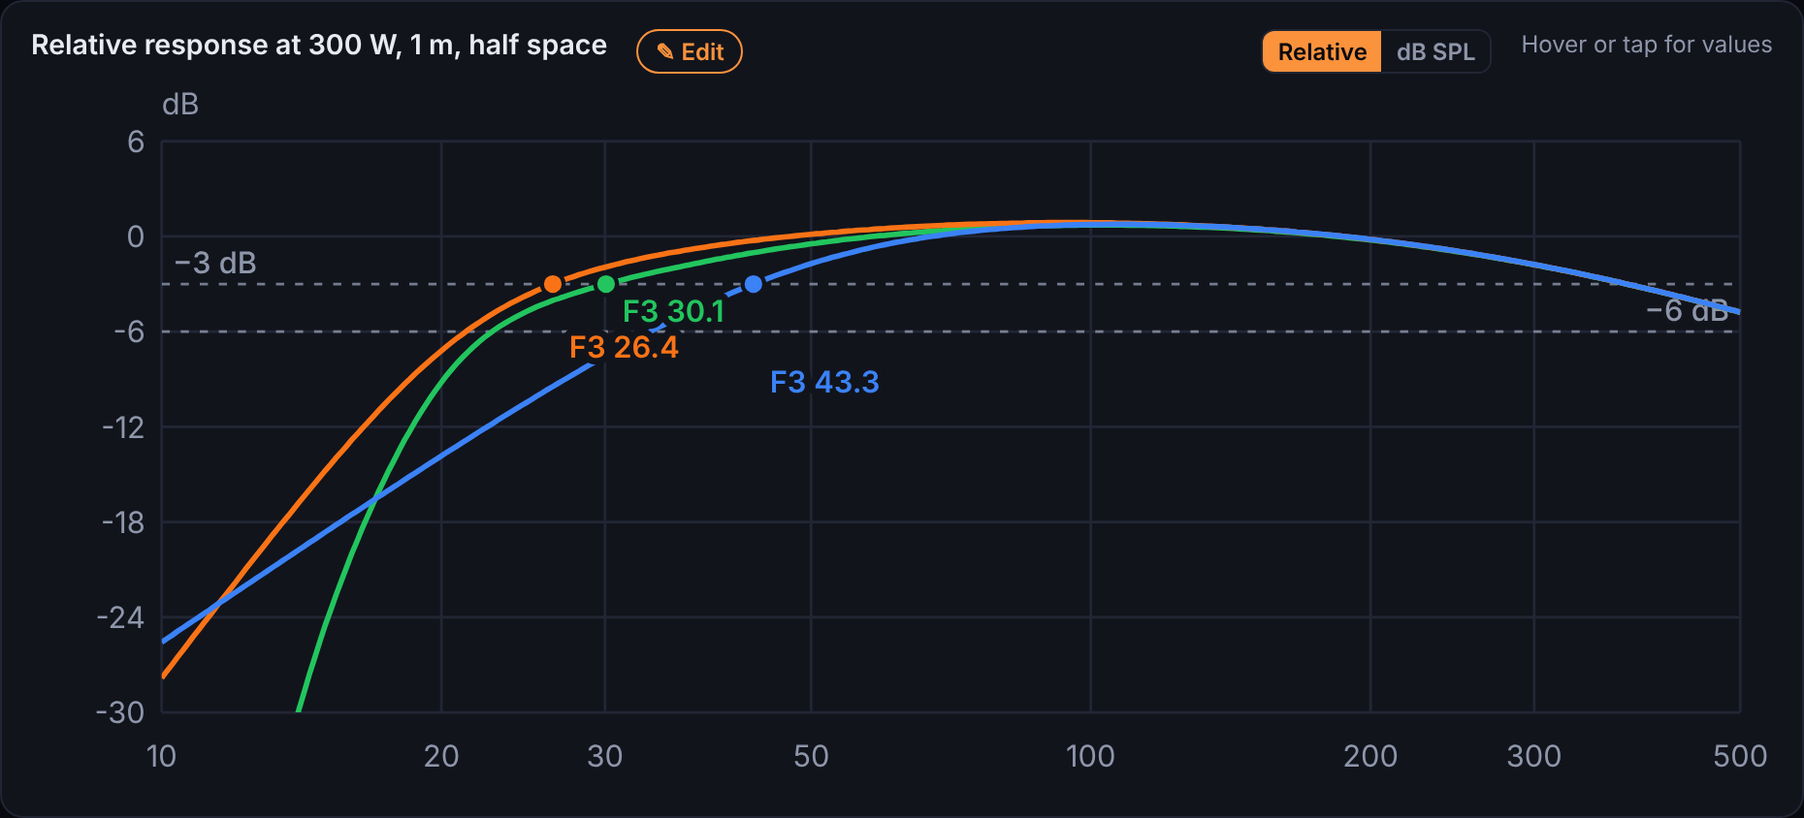
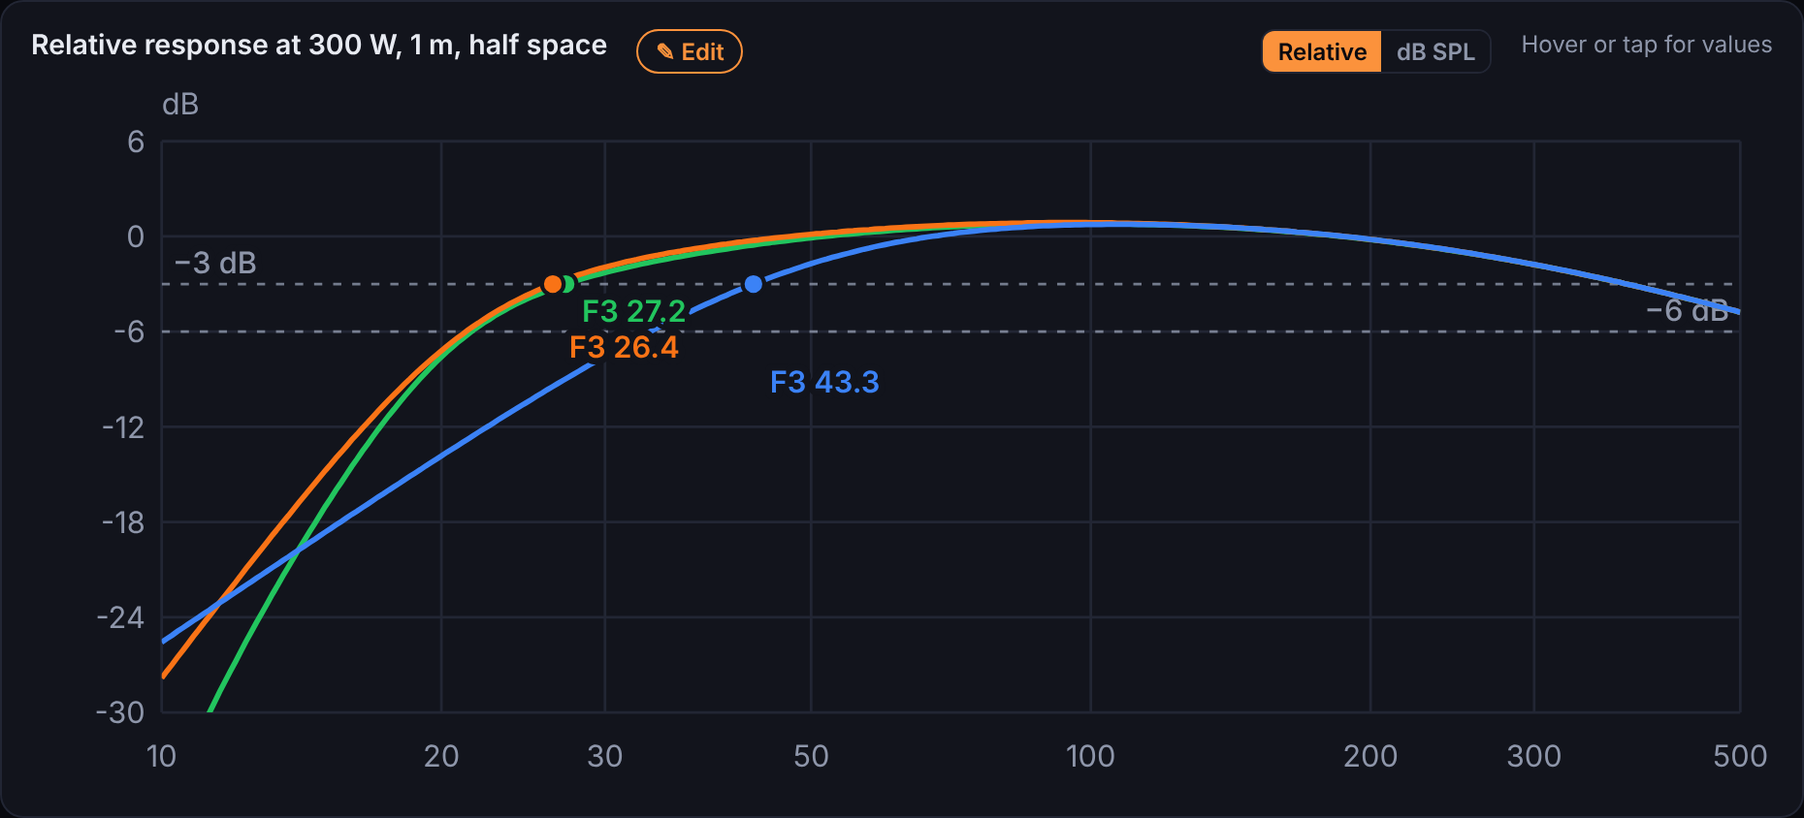
Design assistant guide: re-run on the 20 Hz grading
The example's PR box is now four SB29NRX-00s (+350 g, F3 27.2 Hz), as the
assistant picks with every box checked from 20 Hz (or its F3). New counts,
ranks, Deepest/Smallest winners, the subsonic-filter card line, and
screenshots; "where the checks stop" rewritten. Drops the unused Max SPL
image.

Claude-Session: https://claude.ai/code/session_014Z7ytzgKDyb9k1o8CWjVtJ

Changed region(s): [[0.1559, 0.2773, 0.5301, 0.7085], [0.1247, 0.7085, 0.1871, 0.8626], [0.0935, 0.8318, 0.1247, 0.8626]]

diff --git a/site/guideNumbers.test.ts b/site/guideNumbers.test.ts
@@ -656,20 +656,24 @@ test("design assistant guide: the home-subwoofer defaults still put the example'
   res = [...res, ...prShortlist(rankResults(res, goal), cands).flatMap((r) => evaluateDriver(DEFAULT_STATE, r, loaded(r.id) as never, goal, "pr", db.passiveRadiators.map(prCandidate)))];
   const ranked = rankResults(res, goal);
   const top = ranked[0]!;
-  assert.deepEqual([top.driverId, top.box, top.vb_l, top.fb, top.pr?.name, top.pr?.count, top.pr?.addedMass_g, top.over], ["dayton-audio/rss315ho-44", "pr", 38.1, 22.2, "Dayton Audio RSS315-PR", 1, 431, []]);
-  near(top.f3, 30.1, 0.06, "PR F3");
+  assert.deepEqual([top.driverId, top.box, top.vb_l, top.fb, top.pr?.name, top.pr?.count, top.pr?.addedMass_g, top.over], ["dayton-audio/rss315ho-44", "pr", 38.1, 22.2, "SB Acoustics SB29NRX-00", 4, 350, []]);
+  near(top.f3, 27.2, 0.06, "PR F3");
+  // Within its limits from 20 Hz up, but its cone and PRs pass Xmax below that: the card says so.
+  assert.deepEqual(top.subsonic, { below_hz: 20, safe_w: 68 });
+  assert.equal(top.pr!.prUse, 0.94);
   const mine = ranked.filter((r) => r.driverId === top.driverId);
   const ported = mine.find((r) => r.box === "vented")!;
   const sealed = mine.find((r) => r.box === "sealed")!;
   assert.deepEqual(ported.over, ["port"]);
-  assert.equal(ported.safe_w, 23);
+  assert.equal(ported.safe_w, 25);
   assert.equal(sealed.vb_l, 23);
-  assert.equal(ranked.findIndex((r) => r.driverId === "18-sound/18ntlw5000-8ohm" && r.box === "vented") + 1, 11);
-  assert.equal(ranked.indexOf(sealed) + 1, 8);
-  assert.equal(ranked.indexOf(ported) + 1, 540);
+  assert.equal(ranked.findIndex((r) => r.driverId === "18-sound/18ntlw5000-8ohm" && r.box === "vented") + 1, 10);
+  assert.equal(ranked.indexOf(sealed) + 1, 9);
+  assert.equal(ranked.indexOf(ported) + 1, 579);
+  assert.equal(sealed.subsonic, undefined);
   // Re-sorted: Deepest and Loudest on the same results; Smallest sizes the boxes again.
   const deep = rankResults(res, { ...goal, priority: "deep" })[0]!;
-  assert.deepEqual([deep.driverId, deep.box, deep.vb_l, Math.round(deep.f3 * 10) / 10], ["sb-acoustics/sb34swpl76-3-dv", "pr", 76.6, 22.9]);
+  assert.deepEqual([deep.driverId, deep.box, deep.vb_l, Math.round(deep.f3 * 10) / 10, deep.pr?.name, deep.over], ["peerless/stw-350f188pr01-04", "pr", 75.3, 17.8, "Dayton Audio RSS315-PR", []]);
   const loud = rankResults(res, { ...goal, priority: "loud" })[0]!;
   assert.deepEqual([loud.driverId, loud.box, loud.vb_l, loud.loud_db, loud.pr?.name], ["peerless/sdf-375f75pr01-04", "pr", 80, 110.6, "Dayton Audio RSS460-PR"]);
   assert.ok(loud.notes.some((n) => n.includes("won't all fit")));
@@ -678,10 +682,11 @@ test("design assistant guide: the home-subwoofer defaults still put the example'
   let sres = scands.flatMap((r) => evaluateDriver(DEFAULT_STATE, r, loaded(r.id) as never, sgoal));
   sres = [...sres, ...prShortlist(rankResults(sres, sgoal), scands).flatMap((r) => evaluateDriver(DEFAULT_STATE, r, loaded(r.id) as never, sgoal, "pr", db.passiveRadiators.map(prCandidate)))];
   const small = rankResults(sres, sgoal)[0]!;
-  assert.deepEqual([small.driverId, small.box, small.vb_l], ["dayton-audio/umii10-22", "pr", 45.9]);
+  assert.deepEqual([small.driverId, small.box, small.vb_l, small.pr?.name, small.pr?.count, small.pr?.addedMass_g], ["peerless/stw-350f188pr01-04", "pr", 28.2, "SB Acoustics SB29NRX-00", 4, 1154]);
+  assert.ok(small.notes.some((n) => n.includes("won't all fit")));
   // The counts the guide gives for these defaults.
   const grade = (g: string) => ranked.filter((r) => (g === "over" ? r.over.length > 0 : g === "deep" ? !r.over.length && !!r.deep : !r.over.length && !r.deep)).length;
-  assert.deepEqual([cands.length, ranked.length, grade("ok"), grade("deep"), grade("over")], [733, 1430, 416, 67, 947]);
+  assert.deepEqual([cands.length, ranked.length, grade("ok"), grade("deep"), grade("over")], [733, 1431, 456, 67, 908]);
   // Opening it with ported too, plus the sealed box, gives the example's designs.
   const opened = openResults(DEFAULT_STATE, loaded(top.driverId) as never, [top, ported, sealed], goal);
   const ex = EXAMPLES["assistant-example"]!();
@@ -691,9 +696,17 @@ test("design assistant guide: the home-subwoofer defaults still put the example'
   // The example at 300 W.
   const rows3 = run("assistant-example");
   const l = rows3.map((d) => limitsOf(d.result, ex.xmax_mm, false));
-  near(l[0]!.x!, 8.97, 0.01, "PR cone");
-  near(l[1]!.vp!, 61.7, 0.06, "ported port speed");
-  near(l[2]!.x!, 10.65, 0.01, "sealed cone");
-  [30.1, 26.4, 43.3].forEach((f3, i) => near(rows3[i]!.result.summary.f3!, f3, 0.06, `${rows3[i]!.label} F3`));
-  [105.5, 106.6, 101.0].forEach((db30, i) => near(at(rows3[i]!.result.freq, rows3[i]!.result.spl, 30), db30, 0.06, `${rows3[i]!.label} at 30 Hz`));
+  near(l[0]!.x!, 8.76, 0.01, "PR cone");
+  near(l[0]!.xpr!.mm, 10.6, 0.01, "PR travel");
+  near(l[1]!.vp!, 59.6, 0.06, "ported port speed");
+  near(l[2]!.x!, 10.25, 0.01, "sealed cone");
+  [27.2, 26.4, 43.3].forEach((f3, i) => near(rows3[i]!.result.summary.f3!, f3, 0.06, `${rows3[i]!.label} F3`));
+  [106.3, 106.6, 101.0].forEach((db30, i) => near(at(rows3[i]!.result.freq, rows3[i]!.result.spl, 30), db30, 0.06, `${rows3[i]!.label} at 30 Hz`));
+  // The trap: below 20 Hz the PR box's cone passes Xmax; a 24 dB/oct 18 Hz high-pass filter fixes it.
+  near(at(rows3[0]!.result.freq, rows3[0]!.result.excursionMm, 15), 20.4, 0.06, "PR cone at 15 Hz");
+  near(Math.max(...Array.from(rows3[2]!.result.excursionMm)), 11.2, 0.06, "sealed cone, 10 Hz up");
+  const hp = { ...ex, highPass: { on: true, type: "butterworth" as const, order: 4, freq: 18 } };
+  const withHp = runDesigns(hp, solveDriver(hp))[0]!.result;
+  near(at(withHp.freq, withHp.excursionMm, 15), 8.9, 0.06, "PR cone at 15 Hz, filtered");
+  near(withHp.summary.f3!, 27.7, 0.06, "PR F3, filtered");
 });

diff --git a/site/examples.ts b/site/examples.ts
@@ -665,7 +665,7 @@ function ampExample(kind: "one" | "parallel" | "series" | "bridged") {
  * box ("Open with ported too": the port it picks, 4 cm flared 1 cm, is all that fits) and its
  * sealed box. Fixed here; guideNumbers checks the assistant still gives them.
  */
-export const ASSISTANT_EX = { power: 300, pr_l: 38.1, fb: 22.2, prMass_g: 431, sealed_l: 23, port: { diameter_cm: 4, flare_cm: 1, length_cm: 18.4 } };
+export const ASSISTANT_EX = { power: 300, pr_l: 38.1, fb: 22.2, prMass_g: 350, prCount: 4, sealed_l: 23, port: { diameter_cm: 4, flare_cm: 1, length_cm: 18.4 } };
 function assistantExample(): AppState {
   const s = withDriver({ ...DEFAULT_STATE, power: ASSISTANT_EX.power, highPass: { ...DEFAULT_STATE.highPass, on: false } }, "dayton-audio/rss315ho-44");
   const pr = byKind(DEFAULT_STATE, "pr") as Extract<DesignState, { kind: "pr" }>;
@@ -674,7 +674,7 @@ function assistantExample(): AppState {
     ...s,
     dvc: { on: true, entered: "series", wired: "series" },
     designs: [
-      { ...pr, id: "d1", name: "PR RSS315HO-44", vb_l: ASSISTANT_EX.pr_l, prName: "Dayton Audio RSS315-PR", count: 1, addedMass_g: ASSISTANT_EX.prMass_g, targetFb: ASSISTANT_EX.fb, params: prParams("dayton-audio/rss315-pr"), extra: [], preset: "Assistant" },
+      { ...pr, id: "d1", name: "PR RSS315HO-44", vb_l: ASSISTANT_EX.pr_l, prName: "SB Acoustics SB29NRX-00", count: ASSISTANT_EX.prCount, addedMass_g: ASSISTANT_EX.prMass_g, targetFb: ASSISTANT_EX.fb, params: prParams("sb-acoustics/sb29nrx-00"), extra: [], preset: "Assistant" },
       { ...v, id: "d2", name: "Ported RSS315HO-44", vb_l: ASSISTANT_EX.pr_l, shape: "round", ...ASSISTANT_EX.port, count: 1, targetFb: ASSISTANT_EX.fb, preset: "Assistant" },
       { ...byKind(DEFAULT_STATE, "sealed"), id: "d3", name: "Sealed RSS315HO-44", vb_l: ASSISTANT_EX.sealed_l, preset: "Assistant" },
     ],

diff --git a/site/pages/design-assistant.md b/site/pages/design-assistant.md
@@ -32,28 +32,29 @@ Not sure which driver to buy, or which box to put it in? The design assistant as
 
 ## A worked run: the home-subwoofer defaults
 
-Leave everything at **Home subwoofer**'s defaults and the assistant tries **733** of the database's drivers (the rest are outside the size range, aren't woofers, resonate above 60 Hz, lack the parameters or can't be wired to the amplifier's minimum load) and returns **1,430 boxes**. **416** are within their limits at 300 W, **67** more only pass Xmax in deep bass (amber, below), and **947** are over a limit. The top of the list, Balanced:
+Leave everything at **Home subwoofer**'s defaults and the assistant tries **733** of the database's drivers (the rest are outside the size range, aren't woofers, resonate above 60 Hz, lack the parameters or can't be wired to the amplifier's minimum load) and returns **1,431 boxes**. **456** are within their limits at 300 W, **67** more only pass Xmax in deep bass (amber, below), and **908** are over a limit. The top of the list, Balanced:
 
-![The home-sub results, best first. The Dayton RSS315HO-44 with one RSS315-PR leads: F3 30 Hz, 106 dB at 30 Hz, 38 L. Each card gives the F3, the output at your frequency, the box, and the grade.](img/assistant-results.png)
+![The home-sub results, best first. The Dayton RSS315HO-44 with four SB29NRX-00 radiators leads: F3 27 Hz, 106 dB at 30 Hz, 38 L. Each card gives the F3, the output at your frequency, the box, the grade, and where a subsonic filter is needed.](img/assistant-results.png)
 
-The first result is a **Dayton Audio RSS315HO-44** 12″ (its two 4 Ω coils in series, 8 Ω) [1] with one **RSS315-PR** [2] and 431 g added to it, in **38.1 L** tuned to **22.2 Hz**. **Open with ported too** puts the same driver in the same 38.1 L box with a port; the worked example adds its sealed box (23 L, Qtc 0.707) from its own card further down the list:
+The first result is a **Dayton Audio RSS315HO-44** 12″ (its two 4 Ω coils in series, 8 Ω) [1] with four **SB Acoustics SB29NRX-00** 10″ passive radiators [2], 350 g added to each, in **38.1 L** tuned to **22.2 Hz**. The card warns that the PRs use 94 % of their travel when the driver reaches its Xmax, past the 75 % where a PR's suspension starts to stiffen. SB Acoustics' 17 mm figure for this PR is its mechanical limit, not a linear one, so treat that as a real warning and check the **PR excursion** chart once it's open. **Open with ported too** puts the same driver in the same 38.1 L box with a port; the worked example adds its sealed box (23 L, Qtc 0.707) from its own card further down the list:
 
 [[Open the worked example|assistant-example]]
 
 | At 300 W, no filter | PR, 38.1 L | Ported, 38.1 L | Sealed, 23 L |
 |---|---|---|---|
-| F3 | 30.1 Hz | **26.4 Hz** | 43.3 Hz |
-| Output at 30 Hz | 105.5 dB | **106.6 dB** | 101.0 dB |
-| Peak cone travel, 20 Hz up (Xmax 14 mm) | 9.0 mm | 8.6 mm | 10.6 mm |
-| Port air speed | — | **61.7 m/s** | — |
-| Grade | ✓ within limits | ⚠ port, safe to 23 W | ✓ within limits |
-| Rank in the list | **1st** | 540th | 8th |
+| F3 | 27.2 Hz | **26.4 Hz** | 43.3 Hz |
+| Output at 30 Hz | 106.3 dB | **106.6 dB** | 101.0 dB |
+| Peak cone travel, 20 Hz up (Xmax 14 mm) | 8.8 mm | 8.6 mm | 10.2 mm |
+| Peak PR travel, 20 Hz up (17 mm) | 10.6 mm | — | — |
+| Port air speed | — | **59.6 m/s** | — |
+| Grade | ✓ within limits from 20 Hz up | ⚠ port, safe to about 25 W | ✓ within limits down to 10 Hz |
+| Rank in the list | **1st** | 579th | 9th |
 
-![The example's response: the ported box (orange) reaches 26.4 Hz, the PR box (green) 30.1 Hz, the sealed box (blue) 43.3 Hz.](img/assistant-example-spl.png)
+![The example's response: the ported box (orange) reaches 26.4 Hz, the PR box (green) 27.2 Hz, the sealed box (blue) 43.3 Hz.](img/assistant-example-spl.png)
 
-![Port air speed in the ported box at 300 W: 61.7 m/s, more than three times the 17 m/s chuffing line.](img/assistant-example-port.png)
+![Port air speed in the ported box at 300 W: 59.6 m/s, three and a half times the 17 m/s chuffing line.](img/assistant-example-port.png)
 
-The ported box goes 3.7 Hz deeper than the PR box, but it can't be built to play at 300 W. A 38 L box tuned to 22 Hz needs a long port. The biggest that fits straight inside is **4 cm** across (flared, 18.4 cm long), and at 300 W its air moves at **61.7 m/s**. That box is only quiet up to **23 W**. The PR box has no port to chuff, which is why it ranks first and the ported box 540th. That's the trade a passive radiator makes: a few hertz of F3, against a port you can't fit.
+The ported box goes only 0.8 Hz deeper than the PR box, and it can't be built to play at 300 W. A 38 L box tuned to 22 Hz needs a long port. The biggest that fits straight inside is **4 cm** across (flared, 18.4 cm long), and at 300 W its air moves at **59.6 m/s**. That box is only quiet up to about **25 W**. The PR box has no port to chuff, which is why it ranks first and the ported box 579th. That's the trade a passive radiator makes: a hertz of F3 and the cost of four radiators, against a port you can't fit.
 
 ## How results are graded
 
@@ -61,14 +62,14 @@ Every design is simulated at your power and graded exactly as the app grades it,
 
 - **✓ Within its limits:** the cone stays inside its Xmax, and any port under the chuffing line, through the bass it plays.
 - **Deep bass (amber):** a ported, PR or line box only goes past Xmax **below 0.7 × its tuning**, and never past **2 × Xmax** down to 20 Hz. Music has little energy that low, so this is fine for most listening without a subsonic filter. The card says the power that would keep it within Xmax there too.
-- **⚠ Over a limit:** past Xmax in the bass it plays, or the port chuffs. These come after every result that's within its limits, with the power that would keep them within (the ported box above: 23 W).
+- **⚠ Over a limit:** past Xmax in the bass it plays, or the port chuffs. These come after every result that's within its limits, with the power that would keep them within (the ported box above: about 25 W).
 - **Slow bass:** a note when the group delay in the band (from 0.8 × F3 up) is longer than one cycle of the note, where bass starts to sound late. The second result in the example's list, a UMII10-22 PR box, gets one: 39 ms at 26 Hz, 1.02 cycles.
 
-**Where the checks stop.** A sealed box is checked from 15 Hz. A tuned box (ported, PR, line) with no high-pass filter isn't checked below 20 Hz, however low it's tuned. Any design with a high-pass filter on the **Signal** tab is checked from 10 Hz.
+**Where the checks stop.** With no high-pass filter, every box is checked from **20 Hz** up, sealed or tuned, or from its own F3 if that's lower: a box built to reach 18 Hz is checked at 18 Hz. Below that, music has little energy. Any design with a high-pass filter on the **Signal** tab is checked from 10 Hz, since the filter is part of the simulation. A card within its limits also says whether the cone (or a PR) passes Xmax below the checks, and up to what power it wouldn't: "within its limits from 20 Hz up" with a subsonic-filter warning, or "down to 10 Hz" when nothing passes Xmax at all.
 
 ![The example's cone travel at 300 W: within the 14 mm Xmax from 20 Hz up in all three boxes, but below 20 Hz the PR (green) and ported (orange) cones unload and pass it.](img/assistant-example-excursion.png)
 
-> **Common trap: "within its limits" means safe with any signal.** The grade ignores a tuned box below 20 Hz, but your amplifier doesn't. On the excursion chart the PR box's cone reaches **20.3 mm at 15 Hz** (Xmax 14) and the PR itself 24.7 mm. Turn on **Signal → High-pass filter**, 24 dB/oct at 18 Hz, and that drops to **8.8 mm** and 10.7 mm, for an F3 of 30.4 Hz instead of 30.1. See the [subsonic filter guide](/guides/subsonic-filter/).
+> **Common trap: "within its limits" means safe with any signal.** The grade ignores everything below 20 Hz, but your amplifier doesn't. On the excursion chart the PR box's cone reaches **20.4 mm at 15 Hz** (Xmax 14), and the card says it's only safe to 68 W down there. Turn on **Signal → High-pass filter**, 24 dB/oct at 18 Hz, and that drops to **8.9 mm**, for an F3 of 27.7 Hz instead of 27.2. The sealed box doesn't need it: its cone tops out at 11.2 mm, even at 10 Hz. See the [subsonic filter guide](/guides/subsonic-filter/).
 
 On a box tuned higher, the deep-bass zone is shaded on the excursion chart, with its own 2 × Xmax line:
 
@@ -77,7 +78,7 @@ On a box tuned higher, the deep-bass zone is shaded on the excursion chart, with
 ## How results are ranked
 
 - **Within its limits first**, always: over-limit results sort after every one that's within.
-- **Balanced** adds up each result's place in the list on three measures: F3, output at your frequency, and box size (counted at 0.6). It adds a small penalty for a response hump over 1.5 dB and a nudge down for a deep-bass grade. It doesn't use your target F3. So an 18″ ported box with an F3 of 50 Hz ranks 11th in this home-sub list, ahead of sealed boxes reaching 32 Hz, because it's loud and compact. If depth is what you're after, switch to **Deepest**.
+- **Balanced** adds up each result's place in the list on three measures: F3, output at your frequency, and box size (counted at 0.6). It adds a small penalty for a response hump over 1.5 dB and a nudge down for a deep-bass grade. It doesn't use your target F3. So an 18″ ported box with an F3 of 50 Hz ranks 10th in this home-sub list, ahead of sealed boxes reaching 32 Hz, because it's loud and compact. If depth is what you're after, switch to **Deepest**.
 - **Deepest**, **Loudest** and **Smallest box** sort on that one measure (Smallest only among results that reach your target F3).
 - Badges mark the deepest, loudest and smallest of the top 50 that are within their limits.
 
@@ -85,7 +86,7 @@ On a box tuned higher, the deep-bass zone is shaded on the excursion chart, with
 
 - **Sealed:** sized for a Qtc of 0.707, or as big as your limit allows.
 - **Ported:** a flat alignment (QB3, or Keele for a higher Qts), capped at your limit; in a smaller box, the tuning with the lowest F3 that stays flat. The port is the simplest that fits straight inside the box and stays under the chuffing line at your power: a plain tube, then a flared tube, then a slot along a wall. If none does both, it gets the one that fits and is graded over the limit, as in the example.
-- **Passive radiator boxes** (on by default for home subs, bookshelf woofers and towers; tick **Passive radiator** for the others): the ported box's size and tuning with the database's PRs instead of a port. The app's PR finder picks them, in groups of 1, 2 or 4, tuned with added mass. A PR that runs out of travel before the driver, or needs more than 3 × its own mass added, is ruled out. With **My space**, one that won't fit a face of the space is ruled out too. Without it, the card notes when the driver and PRs won't all fit the panels of a cube-shaped box of that volume, such as an 18″ PR on an 80 L box, so you can plan the box around them.
+- **Passive radiator boxes** (on by default for home subs, bookshelf woofers and towers; tick **Passive radiator** for the others): the ported box's size and tuning with the database's PRs instead of a port. The app's PR finder picks them, in groups of 1, 2 or 4, tuned with added mass. The finder sizes them so they don't run out of travel before the driver reaches its Xmax (from 20 Hz up), which is why a 12″ driver can end up with four 10″ PRs. A PR that runs out of travel first, or needs more than 3 × its own mass added, is ruled out. With **My space**, one that won't fit a face of the space is ruled out too. Without it, the card notes when the driver and PRs won't all fit the panels of a cube-shaped box of that volume, such as an 18″ PR on an 80 L box, so you can plan the box around them.
 - **Transmission lines** (bookshelf, tower and "something else"): a mass-loaded line (MLTL) and a classic tapered line from the app's line presets. Each is narrowed to your volume, tuned, and folded with the app's fold tool into a cabinet at most 125 cm tall, 50 cm deep and 45 cm wide. Lines longer than 3 m, or narrower on average than 0.8 × the cone, are left out.
 - **Bandpass boxes** (car, home and "something else" subwoofers): 4th order (sealed rear, ported front) and 6th order (both ported), found by a search within your volume. A bandpass box only plays a band, so its band (−3 dB from its own peak) has to reach at least 80 Hz to cross over to your main speakers. The same search is the **Size for a flat band** button on any bandpass design.
 
@@ -121,13 +122,13 @@ When filling the space reaches at least 3 % lower F3 than the flat alignment, a 
 
 ## Assistant myths, checked
 
-**"The top result is the best driver."** It's the best by the measure you picked, among those within their limits at your power. Balanced is a sum of ranks, not your target. Set the power to what your amplifier really gives, and re-sort if depth or size matters more. *Proof: on the same list, Balanced puts the RSS315HO-44 PR box first, Deepest an SB Acoustics SB34SWPL76 PR box (F3 22.9 Hz, 76.6 L), Loudest a Peerless SDF-375F75PR01-04 in 80 L with an RSS460-PR (110.6 dB at 30 Hz, and its card warns the 45 cm radiator and the driver won't fit a cube that size), and Smallest a UMII10-22 PR box (45.9 L).*
+**"The top result is the best driver."** It's the best by the measure you picked, among those within their limits at your power. Balanced is a sum of ranks, not your target. Set the power to what your amplifier really gives, and re-sort if depth or size matters more. *Proof: on the same list, Balanced puts the RSS315HO-44 PR box first, Deepest a Peerless STW-350F188PR01-04 in 75.3 L with an RSS315-PR (F3 17.8 Hz, checked down to 17.8 Hz), and Loudest a Peerless SDF-375F75PR01-04 in 80 L with an RSS460-PR (110.6 dB at 30 Hz; its card warns that the 45 cm radiator and the driver won't fit a cube that size). Smallest box puts the same STW-350 in 28.2 L, but with four SB29NRX-00s carrying 1,154 g each, and its card warns those won't fit a cube that size either.*
 
-**"A ported box always beats a PR box."** In the same box and tuning the port goes deeper here (26.4 Hz against 30.1 Hz). But only the PR box can play at 300 W, because the port that fits a 38 L box at 22 Hz chuffs above 23 W. *Proof: the response and Port speed charts of the worked example.*
+**"A ported box always beats a PR box."** In the same box and tuning the port goes a little deeper here (26.4 Hz against 27.2 Hz). But only the PR box can play at 300 W, because the port that fits a 38 L box at 22 Hz chuffs above about 25 W. *Proof: the response and Port speed charts of the worked example.*
 
-**"Within its limits means I don't need a subsonic filter."** The grade stops at 20 Hz for tuned boxes. Below that the example's PR box reaches 20.3 mm at 15 Hz, past its 14 mm Xmax. *Proof: the excursion chart, then Signal → High-pass filter.*
+**"Within its limits means I don't need a subsonic filter."** The grade stops at 20 Hz. Below that the example's PR box reaches 20.4 mm at 15 Hz, past its 14 mm Xmax, and its card says so. *Proof: the card's "from 20 Hz up" line, the excursion chart, then Signal → High-pass filter.*
 
-**"Bigger power, louder results."** Only until a limit: at the default 300 W, 947 of the 1,430 home-sub boxes are over one. The card always says what sets its output (the amplifier, the cone, the port) and the power that keeps it within. *Proof: each card's limit line; Max SPL once opened.*
+**"Bigger power, louder results."** Only until a limit: at the default 300 W, 908 of the 1,431 home-sub boxes are over one. The card always says what sets its output (the amplifier, the cone, the port) and the power that keeps it within. *Proof: each card's limit line; Max SPL once opened.*
 
 ## Good to know
 
@@ -140,4 +141,4 @@ When filling the space reaches at least 3 % lower F3 than the flat alignment, a 
 ## Sources
 
 1. Dayton Audio, [RSS315HO-44 12″ Reference HO DVC subwoofer](https://www.daytonaudio.com/product/125/rss315ho-44-12-reference-ho-dvc-subwoofer-4-ohms-per-coil) (T/S parameters used with Dayton Audio's permission).
-2. Dayton Audio, [RSS315-PR 12″ passive radiator](https://www.daytonaudio.com/product/1426/rss315-pr-12-aluminum-cone-passive-radiator).
+2. SB Acoustics, [SB29NRX-00 10″ passive radiator](https://sbacoustics.com/product/10in-sb29nrx-00-norex/) and its [datasheet](https://sbacoustics.com/wp-content/uploads/2020/09/10in-SB29NRX-00.pdf) (used with SB Acoustics' permission).
